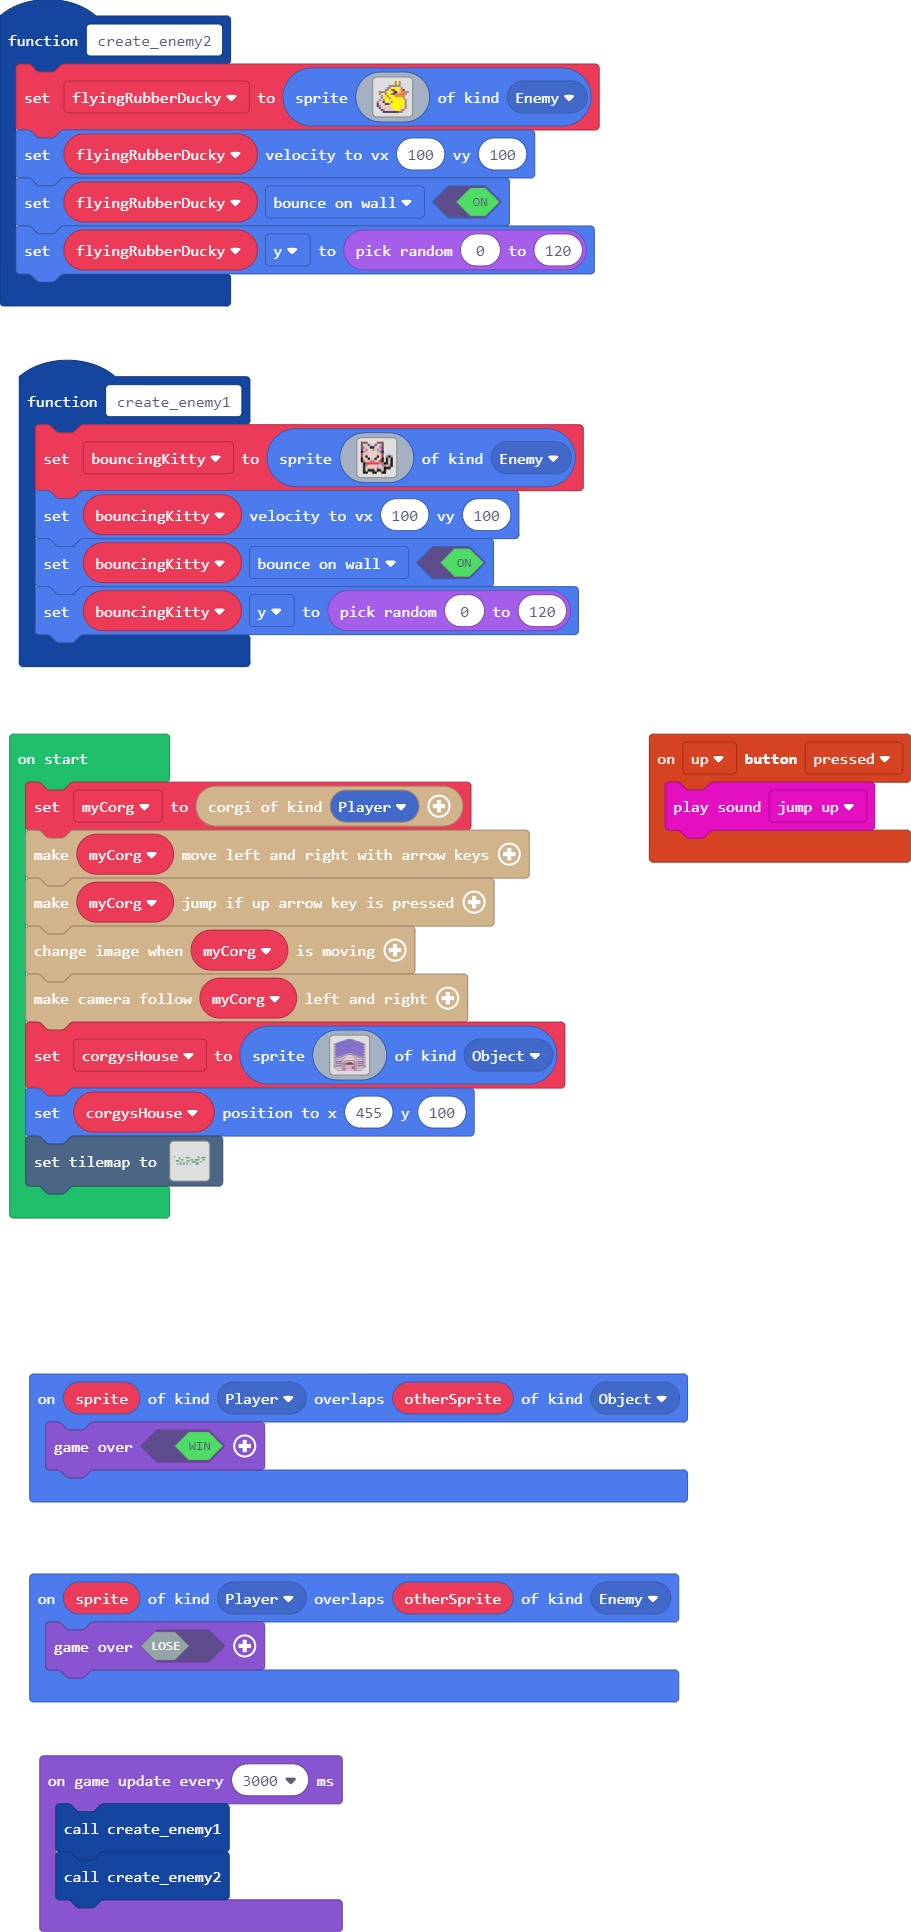
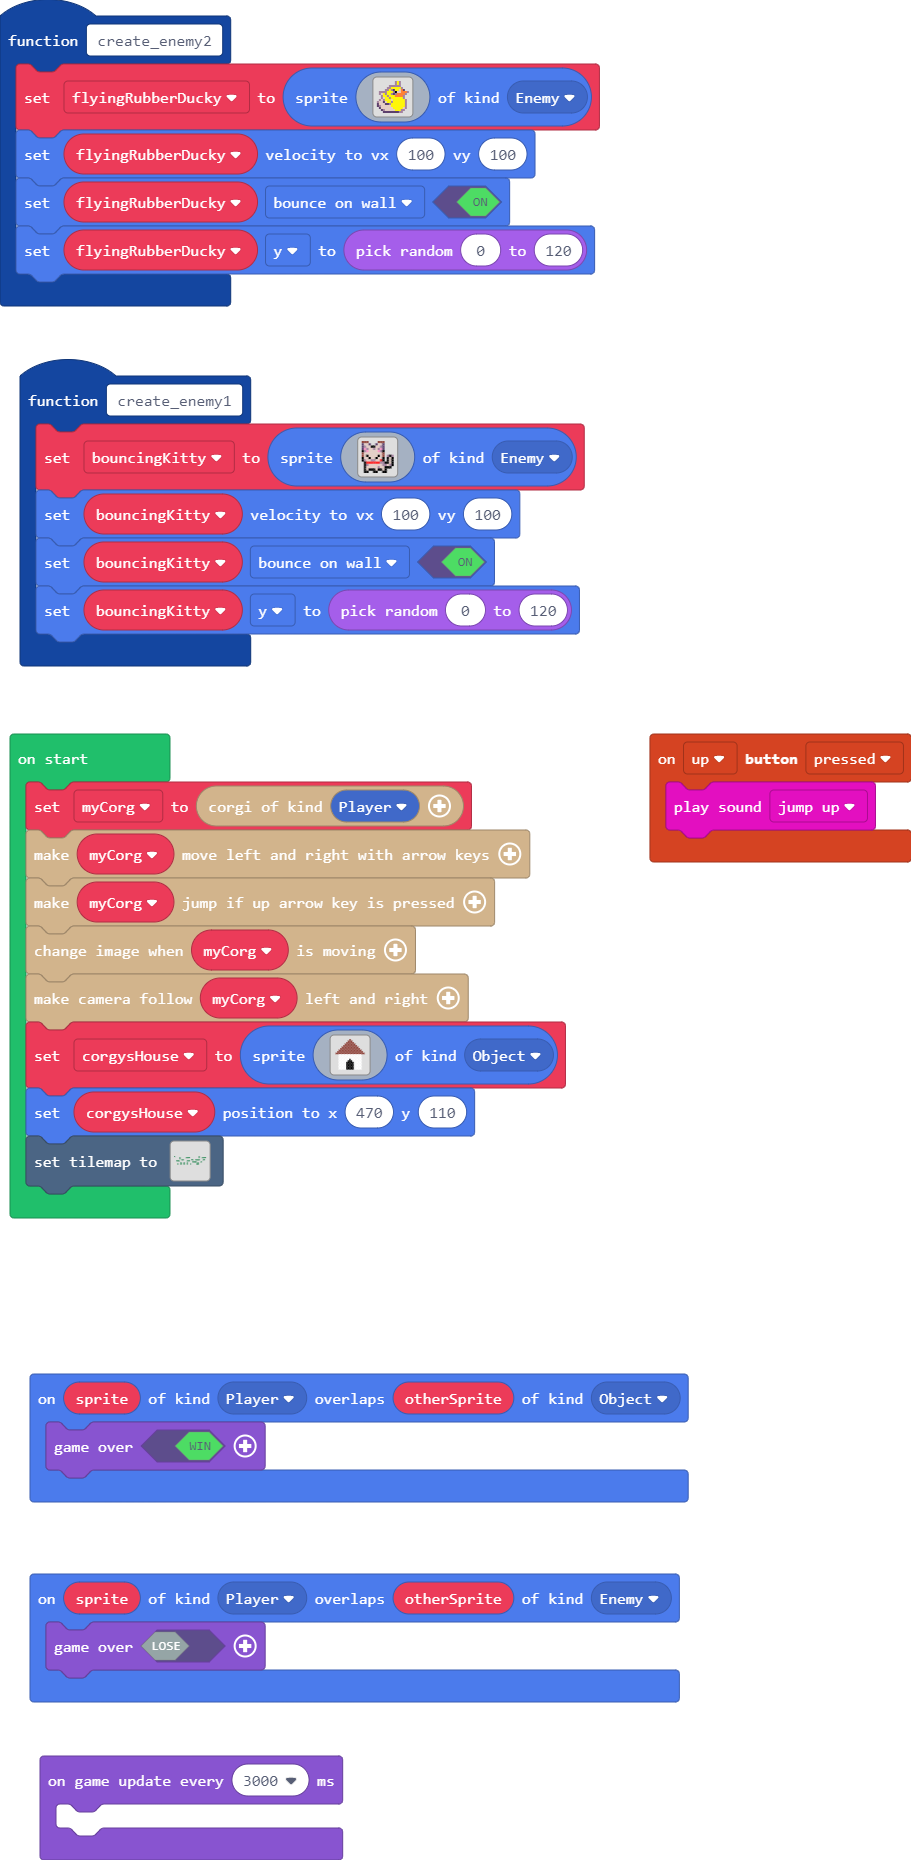
Changed doghouse to make it more realistic

diff --git a/main.ts b/main.ts
@@ -3,7 +3,7 @@ namespace SpriteKind {
 }
 namespace myTiles {
     //% blockIdentity=images._tile
-    export const tile0 = img`
+    export const tile1 = img`
 . . . . . . . . . . . . . . . . 
 . . . . . . . . . . . . . . . . 
 . . . . . . . . . . . . . . . . 
@@ -22,7 +22,7 @@ namespace myTiles {
 . . . . . . . . . . . . . . . . 
 `
     //% blockIdentity=images._tile
-    export const tile1 = img`
+    export const tile0 = img`
 . . . . . . . . . . . . . . . . 
 . . . . . . . . . . . . . . . . 
 . . . . . . . . . . . . . . . . 
@@ -102,56 +102,28 @@ myCorg.verticalMovement()
 myCorg.updateSprite()
 myCorg.follow()
 let corgysHouse = sprites.create(img`
-. . . . . . . . . . . . . . . . . . . . 8 a 8 a a 8 a 8 . . . . . . . . . . . . . . . . . . . . 
-. . . . . . . . . . . . . . . . . a a a 8 8 8 a a 8 a 8 a a a . . . . . . . . . . . . . . . . . 
-. . . . . . . . . . . . . . a a a 8 a a 8 a 8 a a 8 8 8 a a 8 a a a . . . . . . . . . . . . . . 
-. . . . . . . . . . . 8 a a 8 a a 8 8 8 8 a 8 a a 8 a 8 8 8 8 a a 8 a a 8 . . . . . . . . . . . 
-. . . . . . . . 8 8 8 8 a a 8 a a 8 a a 8 a 8 a a 8 a 8 a a 8 a a 8 a a 8 8 8 8 . . . . . . . . 
-. . . . . a a a 8 a a 8 a a 8 8 8 8 a a 8 a 8 a a 8 a 8 a a 8 8 8 8 a a 8 a a 8 a a a . . . . . 
-. . . a a 8 8 8 8 a a 8 a a 8 a a 8 a a 8 8 8 a a 8 8 8 a a 8 a a 8 a a 8 a a 8 8 8 8 a a . . . 
-d c c a a 8 a a 8 a a 8 8 8 8 a a 8 a a 8 a 8 a a 8 a 8 a a 8 a a 8 8 8 8 a a 8 a a 8 a a c c d 
-b c b 8 8 8 a a 8 a a 8 a a 8 a a 8 a a 8 a 8 a a 8 a 8 a a 8 a a 8 a a 8 a a 8 a a 8 8 8 b c b 
-d b b a a 8 a a 8 8 8 8 a a 8 a a 8 8 8 8 a 8 a a 8 a 8 8 8 8 a a 8 a a 8 8 8 8 a a 8 a a b b d 
-d b b a a 8 a a 8 a a 8 a a 8 8 8 8 a a 8 a 8 a a 8 a 8 a a 8 8 8 8 a a 8 a a 8 a a 8 a a b b d 
-d c c a a 8 8 8 8 a a 8 a a 8 a a 8 a a 8 8 8 a a 8 8 8 a a 8 a a 8 a a 8 a a 8 8 8 8 a a c c d 
-b c b a a 8 a a 8 a a 8 8 8 8 a a 8 a a 8 a 8 a a 8 a 8 a a 8 a a 8 8 8 8 a a 8 a a 8 a a b c b 
-d b b 8 8 8 a a 8 a a 8 a a 8 a a 8 a a 8 a 8 a a 8 a 8 a a 8 a a 8 a a 8 a a 8 a a 8 8 8 b b d 
-d b b a a 8 a a 8 8 8 8 a a 8 a a 8 a a 8 a 8 a a 8 a 8 a a 8 a a 8 a a 8 8 8 8 a a 8 a a b b d 
-d c c a a 8 a a 8 a a 8 a a 8 a a 8 8 8 8 a 8 a a 8 a 8 8 8 8 a a 8 a a 8 a a 8 a a 8 a a c c d 
-b c b a a 8 8 8 8 a a 8 a a 8 8 8 8 a a 8 8 8 a a 8 8 8 a a 8 8 8 8 a a 8 a a 8 8 8 8 a a b c b 
-d b b a a 8 a a 8 a a 8 8 8 8 a a 8 a a 8 a 8 a a 8 a 8 a a 8 a a 8 8 8 8 a a 8 a a 8 a a b b d 
-d b b 8 8 8 a a 8 a a 8 a a 8 a a 8 a a 8 a 8 a a 8 a 8 a a 8 a a 8 a a 8 a a 8 a a 8 8 8 b b d 
-d c c a a 8 a a 8 8 8 8 a a 8 a a 8 a a 8 a 8 a a 8 a 8 a a 8 a a 8 a a 8 8 8 8 a a 8 a a c c d 
-b c b a a 8 a a 8 a a 8 a a 8 a a 8 a a 8 8 8 a a 8 8 8 a a 8 a a 8 a a 8 a a 8 a a 8 a a b c b 
-d b b a a 8 8 8 8 a a 8 a a 8 a a 8 8 8 c c b b b b c c 8 8 8 a a 8 a a 8 a a 8 8 8 8 a a b b d 
-d b b a a 8 a a 8 a a 8 a a 8 8 8 c c b b b b b b b b b b c c 8 8 8 a a 8 a a 8 a a 8 a a b b d 
-d c c 8 8 8 a a 8 a a 8 8 8 c c b b b b b c c c c c c b b b b b c c 8 8 8 a a 8 a a 8 8 8 c c d 
-b c b a a 8 a a 8 8 8 c c b b b b b c c b d d d d d d b c c b b b b b c c 8 8 8 a a 8 a a b c b 
-d b b a a 8 a a c c b b b b b c c b d d d d d d d d d d d d b c c b b b b b c c a a 8 a a b b d 
-d b b a a c c b b b b c c c b d d d d d d d d d d d d d d d d d d b c c c b b b b c c a a b b d 
-d c c c b b b b c c c b d d d b c c b b b b b b b b b b b b c c b d d d b c c c b b b b c c c d 
-c c c c c c c c b b b b b b b c b d d d d d d d d d d d d d d b c b b b b b b b c c c c c c c c 
-b d d d d d d d d d d d d b c d d d d d d d d d d d d d d d d d d c b d d d d d d d d d d d d b 
-b b c b d d d d d d d d d c b d 1 1 1 1 1 1 1 1 1 1 1 1 1 1 1 1 d b c d d d d d d d d d b c b b 
-b b b c c c c c c c c c c c d 1 b b b b b b b b b b b b b b b b 1 d c c c c c c c c c c c b b b 
-b b b b d d d d d d d d d c 1 1 b e e e e e e e e e e e e e e b 1 1 c d d d d d d d d d b b b b 
-b b b 8 a a a a a a a 8 d c 1 b e 3 b 3 3 b 3 3 b 3 3 b 3 3 b e b 1 c d 8 a a a a a a a 8 b b b 
-b b b 8 8 8 8 8 8 8 8 8 d c 1 b e 3 b 3 3 b 3 3 b 3 3 b 3 3 b e b 1 c d 8 8 8 8 8 8 8 8 8 b b b 
-b b b 8 3 3 3 3 3 3 3 8 d c b b f 3 b 3 e f f f f f f e 3 3 b e b b c d 8 3 3 3 3 3 3 3 8 b b b 
-b b b 8 3 f f 3 f f 3 8 d c b b f 3 b f f f f f f f f f f 3 b e b b c d 8 3 f f 3 f f 3 8 b b b 
-b b b 8 3 c c 3 c c 3 8 d c b b f 3 e f f f f f f f f f f e b e b b c d 8 3 c c 3 c c 3 8 b b b 
-b b b 8 3 3 3 3 3 3 3 8 d c b b f 3 e e e e e e e e e e e e b e b b c d 8 3 3 3 3 3 3 3 8 b b b 
-c b b 8 3 f f 3 f f 3 8 d c b b e 3 b 3 3 b 3 3 b 3 3 b 3 3 b e b b c d 8 3 f f 3 f f 3 8 b b c 
-c b b 8 3 c c 3 c c 3 8 d c b b e 3 b 3 3 b 3 3 b 3 3 b 3 3 b e b b c d 8 3 c c 3 c c 3 8 b b c 
-c c b b b b b b b b b b d c b b e 3 b 3 3 b 3 3 b 3 3 f e e e e b b c d b b b b b b b b b b c c 
-. c b b d d d d d d d d d c b b e 3 b 3 3 b 3 3 b 3 3 f f f f e b b c d d d d d d d d d b b c . 
-. . c b d b b b d b b b d c b b f 3 b 3 3 b 3 3 b 3 3 f 3 3 f e b b c d b b b d b b b d b c . . 
-. . . c d b b b d b b b d c b b f 3 b 3 3 b 3 3 b 3 3 b f f e e b b c d b b b d b b b d c . . . 
-. . . . b d d d d d d d d c b b f 3 b 3 3 b 3 3 b 3 3 b 3 3 b e b b c d d d d d d d d b . . . . 
-. . . . . b d b b b d d d c b b f 3 b 3 3 b 3 3 b 3 3 b 3 3 b e b b c d d d b b b d b . . . . . 
-. . . . . . b c c c b b b c b b e 3 b 3 3 b 3 3 b 3 3 b 3 3 b e b b c b b b c c c b . . . . . . 
+. . . . . . . . . . e . . . . . . . . . . 
+. . . . . . . . . e e e . . . . . . . . . 
+. . . . . . . . e e e e e . . . . . . . . 
+. . . . . . . e e e e e e e . . . . . . . 
+. . . . . . e e e e e e e e e . . . . . . 
+. . . . . e e e e e e e e e e e . . . . . 
+. . . . e e e e e e e e e e e e e . . . . 
+. . . e e e e e e e e e e e e e e e . . . 
+. . e e e e e e e e e e e e e e e e e . . 
+. e e e e e e e e e e e e e e e e e e e . 
+. . . 1 1 1 1 1 1 1 1 1 1 1 1 1 1 1 . . . 
+. . . 1 1 1 1 1 1 1 1 1 1 1 1 1 1 1 . . . 
+. . . 1 1 1 1 1 1 1 1 1 1 1 1 1 1 1 . . . 
+. . . 1 1 1 1 1 1 1 f 1 1 1 1 1 1 1 . . . 
+. . . 1 1 1 1 1 1 f f f 1 1 1 1 1 1 . . . 
+. . . 1 1 1 1 1 f f f f f 1 1 1 1 1 . . . 
+. . . 1 1 1 1 1 f f f f f 1 1 1 1 1 . . . 
+. . . 1 1 1 1 1 f f f f f 1 1 1 1 1 . . . 
+. . . 1 1 1 1 1 f f f f f 1 1 1 1 1 . . . 
+. . . 1 1 1 1 1 f f f f f 1 1 1 1 1 . . . 
 `, SpriteKind.Object)
-corgysHouse.setPosition(455, 100)
+corgysHouse.setPosition(470, 110)
 tiles.setTilemap(tiles.createTilemap(
[1 lines of base64/hex data omitted]
             img`
@@ -168,6 +140,5 @@ tiles.setTilemap(tiles.createTilemap(
             TileScale.Sixteen
         ))
 game.onUpdateInterval(3000, function () {
-    create_enemy1()
-    create_enemy2()
+	
 })
